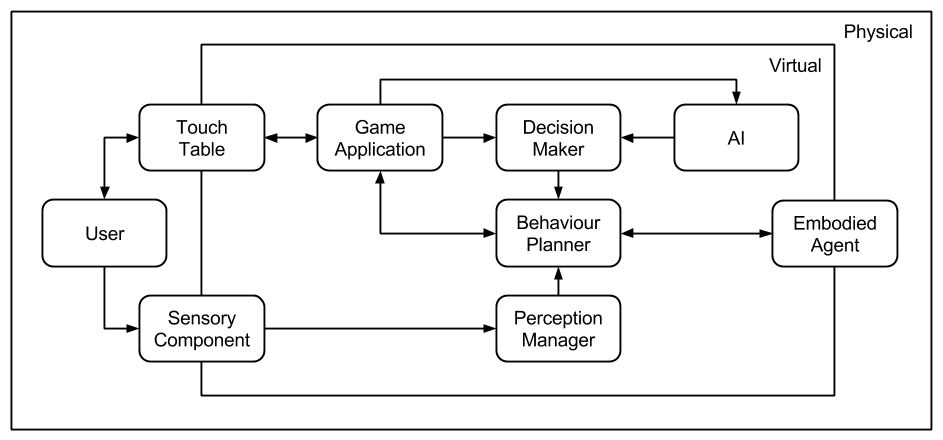
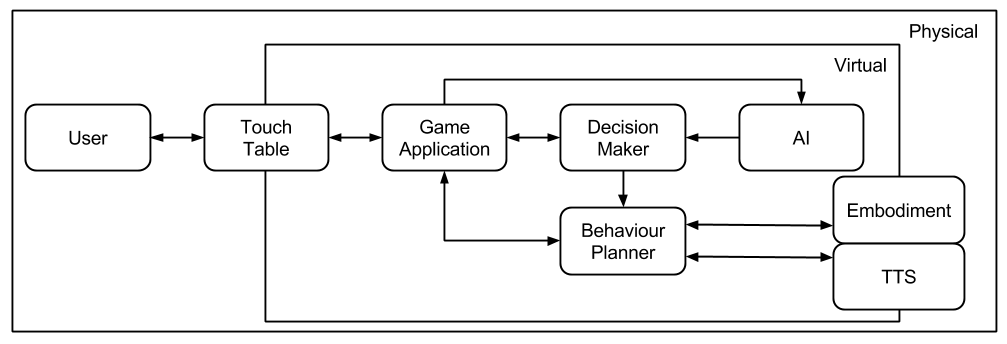
Add social player review

Changed region(s): [[0.0, 0.0, 1.0, 0.9884]]

diff --git a/partials/61_architecture_overview.tex b/partials/61_architecture_overview.tex
@@ -1,7 +1,7 @@
 \section{Architecture Overview}
 \label{section:architecture-overview}
 
-The model presented in Figure~\ref{fig:model} organises all the components involved in this system and their communications.
+The architecture presented in Figure~\ref{fig:architecture} organises all the components involved in this system and their communications.
 It considers a scenario where an embodied agent plays a physical card game against human players over a touch table.
 
 \begin{figure}[ht]
@@ -12,16 +12,15 @@ It considers a scenario where an embodied agent plays a physical card game again
 \end{figure}
 
 First of all, this model distinguishes physical components from virtual ones.
-However, some entities are presented as both physical and virtual components and will not be detailed since their usage in this system did not demand any extensions for the scope of our domain (\emph{Touch Table}, \emph{Sensory Component} and \emph{Embodied Agent}).
+However, some entities are presented as both physical and virtual components and will not be detailed since their usage in this system did not demand any extensions for the scope of our domain (\emph{Touch Table}, \emph{Embodiment} and \emph{Text To Speech (TTS)}).
 
 The basic work-flow that illustrates the main functionalities of each component is as follows.
 The human players, \emph{Users}, play with physical cards on top of a \emph{Touch Table}, and their game actions are managed by the \emph{Game Application} and communicated to both the \emph{\ac{ai}} and the \emph{Decision Maker}.
-\todo[inline]{check the sensory components!}
-Besides their game actions, \emph{Users} also produce another sort of events that are captured by the \emph{Sensory Component} and handled by the \emph{Perception Manager}, for instance, face movements or the source direction of spoken interactions.
+%Besides their game actions, \emph{Users} also produce another sort of events that are captured by the \emph{Sensory Component} and handled by the \emph{Perception Manager}, for instance, face movements or the source direction of spoken interactions.
 The \emph{\ac{ai}} includes all the reasoning about the game and decides the next move of the artificial player.
-However, the \emph{Embodied Agent} will not only play a certain card, but will also include social behaviours.
+However, the \emph{Embodiment} will not only play a certain card, but will also include social behaviours.
 As a result, the \emph{Decision Maker} balances the \emph{\ac{ai}} decisions and game information to produce an appropriate sequence of behaviours and inform them to \emph{Behaviour Planner}.
-Lastly, the \emph{Behaviour Planner}, after receiving high-level intention-directed instructions, builds a suitable plan to execute the chosen instructions, considering the state of the \emph{Embodied Agent}, information from \emph{Perception Manager}, and additional game information from the \emph{Game Application}.
+Lastly, the \emph{Behaviour Planner}, after receiving high-level intention-directed instructions, builds a suitable plan to execute the chosen instructions, considering the state of the \emph{Embodiment} and \emph{TTS} and additional game information from the \emph{Game Application}.
 
 \begin{figure}[ht]
   \centering
@@ -30,7 +29,6 @@ Lastly, the \emph{Behaviour Planner}, after receiving high-level intention-direc
 \label{fig:model}
 \end{figure}
 
-\todo[inline]{confirmar com o Tiago se sai uma seta do skene para o unity!!!}
 The previously described architecture is instantiated as shown in Figure~\ref{fig:model} and the blue modules are thalamus communicating entities.
 This concept arises from the Thalamus Framework \cite{Ribeiro}, which enables the usage of entities that can be registered at runtime in a server in order to send and receive specific messages.
 These entities are publishers and subscribers of the channels they want to write on and listen to, respectively.
@@ -40,6 +38,7 @@ The \emph{Unity Game} module is responsible for displaying the interface of the 
 
 The chosen \emph{Behaviour Planner} is \emph{Skene} \cite{Ribeiroa}, which tightens the communication between the world and an embodied agent with a high-level behaviour description language, also known as utterances.
 These utterances might include instructions for gazing, pointing, animating or sound, among other things.
-Additionally, considering some instructions require target positions or other game information, Skene subscribes to \emph{Unity game} messages to keep that information updated.
+Additionally, considering some instructions require target positions or other game information, \emph{Skene} subscribes to \emph{Unity game} messages to keep that information updated.
 
-The \emph{\ac{ai}} and \emph{FAtiMA} modules answer to our primary goals, for that reason, their implementations are carefully detailed in Section~\ref{sec:artificial_player} and Section~\ref{sec:social_player}, respectively.
+The \emph{\ac{ai}} module contains an instance of the Deep-1 Player presented in Chapter~\ref{chapter:artificial-player}.
+Moreover, the implementation of \emph{FAtiMA} module, as decision maker of our \emph{Sueca} player, is carefully described in the following section.

diff --git a/partials/62_social_player.tex b/partials/62_social_player.tex
@@ -18,7 +18,7 @@ The current section will present the main aspects of the utterances list that ch
 
 
 \subsection{\emph{Sueca} behaviours}
-The analysis of the card game players on user-centred studies revealed key aspects of the interaction during a \emph{Sueca} game.
+The analysis of the card game players on user-centred studies, Chapter~\ref{chapter:user-studies}, revealed key aspects of the interaction during a \emph{Sueca} game.
 First of all, there are specific game situations that may cause verbal or non-verbal behaviours.
 As a result, these game situations guided the categories and subcategories of the utterances list, presented on the following figure.
 
@@ -36,7 +36,7 @@ The annotated non-verbal behaviours were also applied on \emph{emys} during the 
 
 Besides simply replicating behaviours from human players, there are other things to consider in order to make the robot act as a human, for instance, its speech frequency or its emotional state.
 Consequently, this social player applies a probability to decide whether or not to perform an utterance for each game situation.
-Additionally, a \emph{FAtiMA} module was used, as shown in Figure~\ref{fig:model}, to enrich \ac{emys} presence and allow it to share its emotional state.
+Additionally, the \emph{FAtiMA} module was used as decision maker of our \emph{Sueca} player, as shown in Figure~\ref{fig:model}, to enrich \ac{emys} presence and allow it to share its emotional state.
 
 \emph{FAtiMA} is a modular architecture for an emotional agent capable of producing 22 different emotions based on its goals and its perceptions of new events for a determined scenario.
 Perceptions can be updated by changing the values of 6 appraisal variables (desirability, desirability for other, success probability, failure probability, praiseworthiness and like) and their combination can generate one or more emotions.
@@ -45,14 +45,14 @@ However, the current emotional agent of this \emph{Sueca} player is only using 4
 \begin{figure}[ht]
 	\centering
     \includegraphics[width=0.75\textwidth]{./img/6/emotions}
-	\caption{FAtiMA emotions divided}
+	\caption{Distinction of used and non used FAtiMA emotions}
 \label{fig:emotions}
 \end{figure}
 
-A first approach was to subcategorize utterances with emotional states, however, most of the annotated behaviours by human players evidenced they revealed their emotions in few situations during a the game.
-A possible reason may lay on the fact that \emph{Sueca} has the element of chance and unknown information should remain protected.
+One first approach was to subcategorize utterances with emotional states, however, most of the annotated behaviours by human players evidenced they revealed their emotions in few situations during a the game.
+A possible reason may lay on the fact that \emph{Sueca} has the element of chance and unknown information should remain hidden.
 
-As a result, emotional states were used on this social player to subcategorize the \emph{Play} utterances.
+As a result, emotional states were used on this social player to subcategorize only utterances of the \emph{Play} category.
 These utterances are triggered by a play from any player and the idea is to produce an adequate behaviour considering the immediately rewarded benefit.
 In other words, each time a player plays a card, the current winner of the trick is computed to analyse how much the agent benefits with that move and also the player itself.
 With this strategy, when the agent or its team player make a move, the possible emotions are \emph{Happy For} and \emph{Pitty}, otherwise, when an opponent plays, the possible emotions are \emph{Resentment} and \emph{Gloating}.
@@ -61,7 +61,11 @@ Besides the previous usage of the emotional agent, this \emph{Sueca} player is p
 Since the game success probability is always being updated, together with the mentioned perception of reward, this agent also produces \emph{joy}, \emph{distress}, \emph{hope} and \emph{fear} to set its posture during the game.
 %The posture of this embodied agent is an underlying expression over
 
-\todo[inline]{opponent vs teamplayer fatures}
+Finally, another consideration was the opponent and partner component of the \emph{Sueca} game.
+From the analysis based on user-centred studies (Chapter~\ref{chapter:user-studies}), annotated verbal behaviours presented some differences between partners and opponent.
+For instance, players tend to be more supportive and encouraging to partners and more competitive to opponents.
+Theses differences were also included in our \emph{Sueca} player to subcategorize some utterances, as shown in Figure~\ref{fig:utterances}
+
 
 \subsection{Enhancing the game interface with behaviours}
 

diff --git a/partials/60_sueca_player.tex b/partials/60_sueca_player.tex
@@ -1,8 +1,8 @@
 \fancychapter{EMYS: the \emph{Sueca} player}
 \label{chapter:sueca-player}
 
-Revising the purposes of this work, presented in Section~\ref{sec:goals}, the robotic agent that plays \emph{Sueca} has two main tasks: to choose an adequate card to play and to interact socially according to the game state.
-The \ac{ai} module described on the previous chapter, Chapter~\ref{chapter:artificial-player}, answers clearly to the first goal.
+Revising the purposes of this work, presented in Section~\ref{sec:problem}, the robotic agent that plays \emph{Sueca} has two main tasks: to choose an adequate card to play and to interact socially according to the game state.
+The \ac{ai} module previously described, Chapter~\ref{chapter:artificial-player}, answers clearly to the first goal.
 In the same way the current chapter explains how the second goal has been achieved.
 %In order to achieve these goals, some state-of-the-art approaches have been reviewed and considered for the implementation in our domain.
 %Thus the current chapter aims to carefully describe the decisions that were taken, some limitations imposed by the domain, as well as enhancements that have been made.
